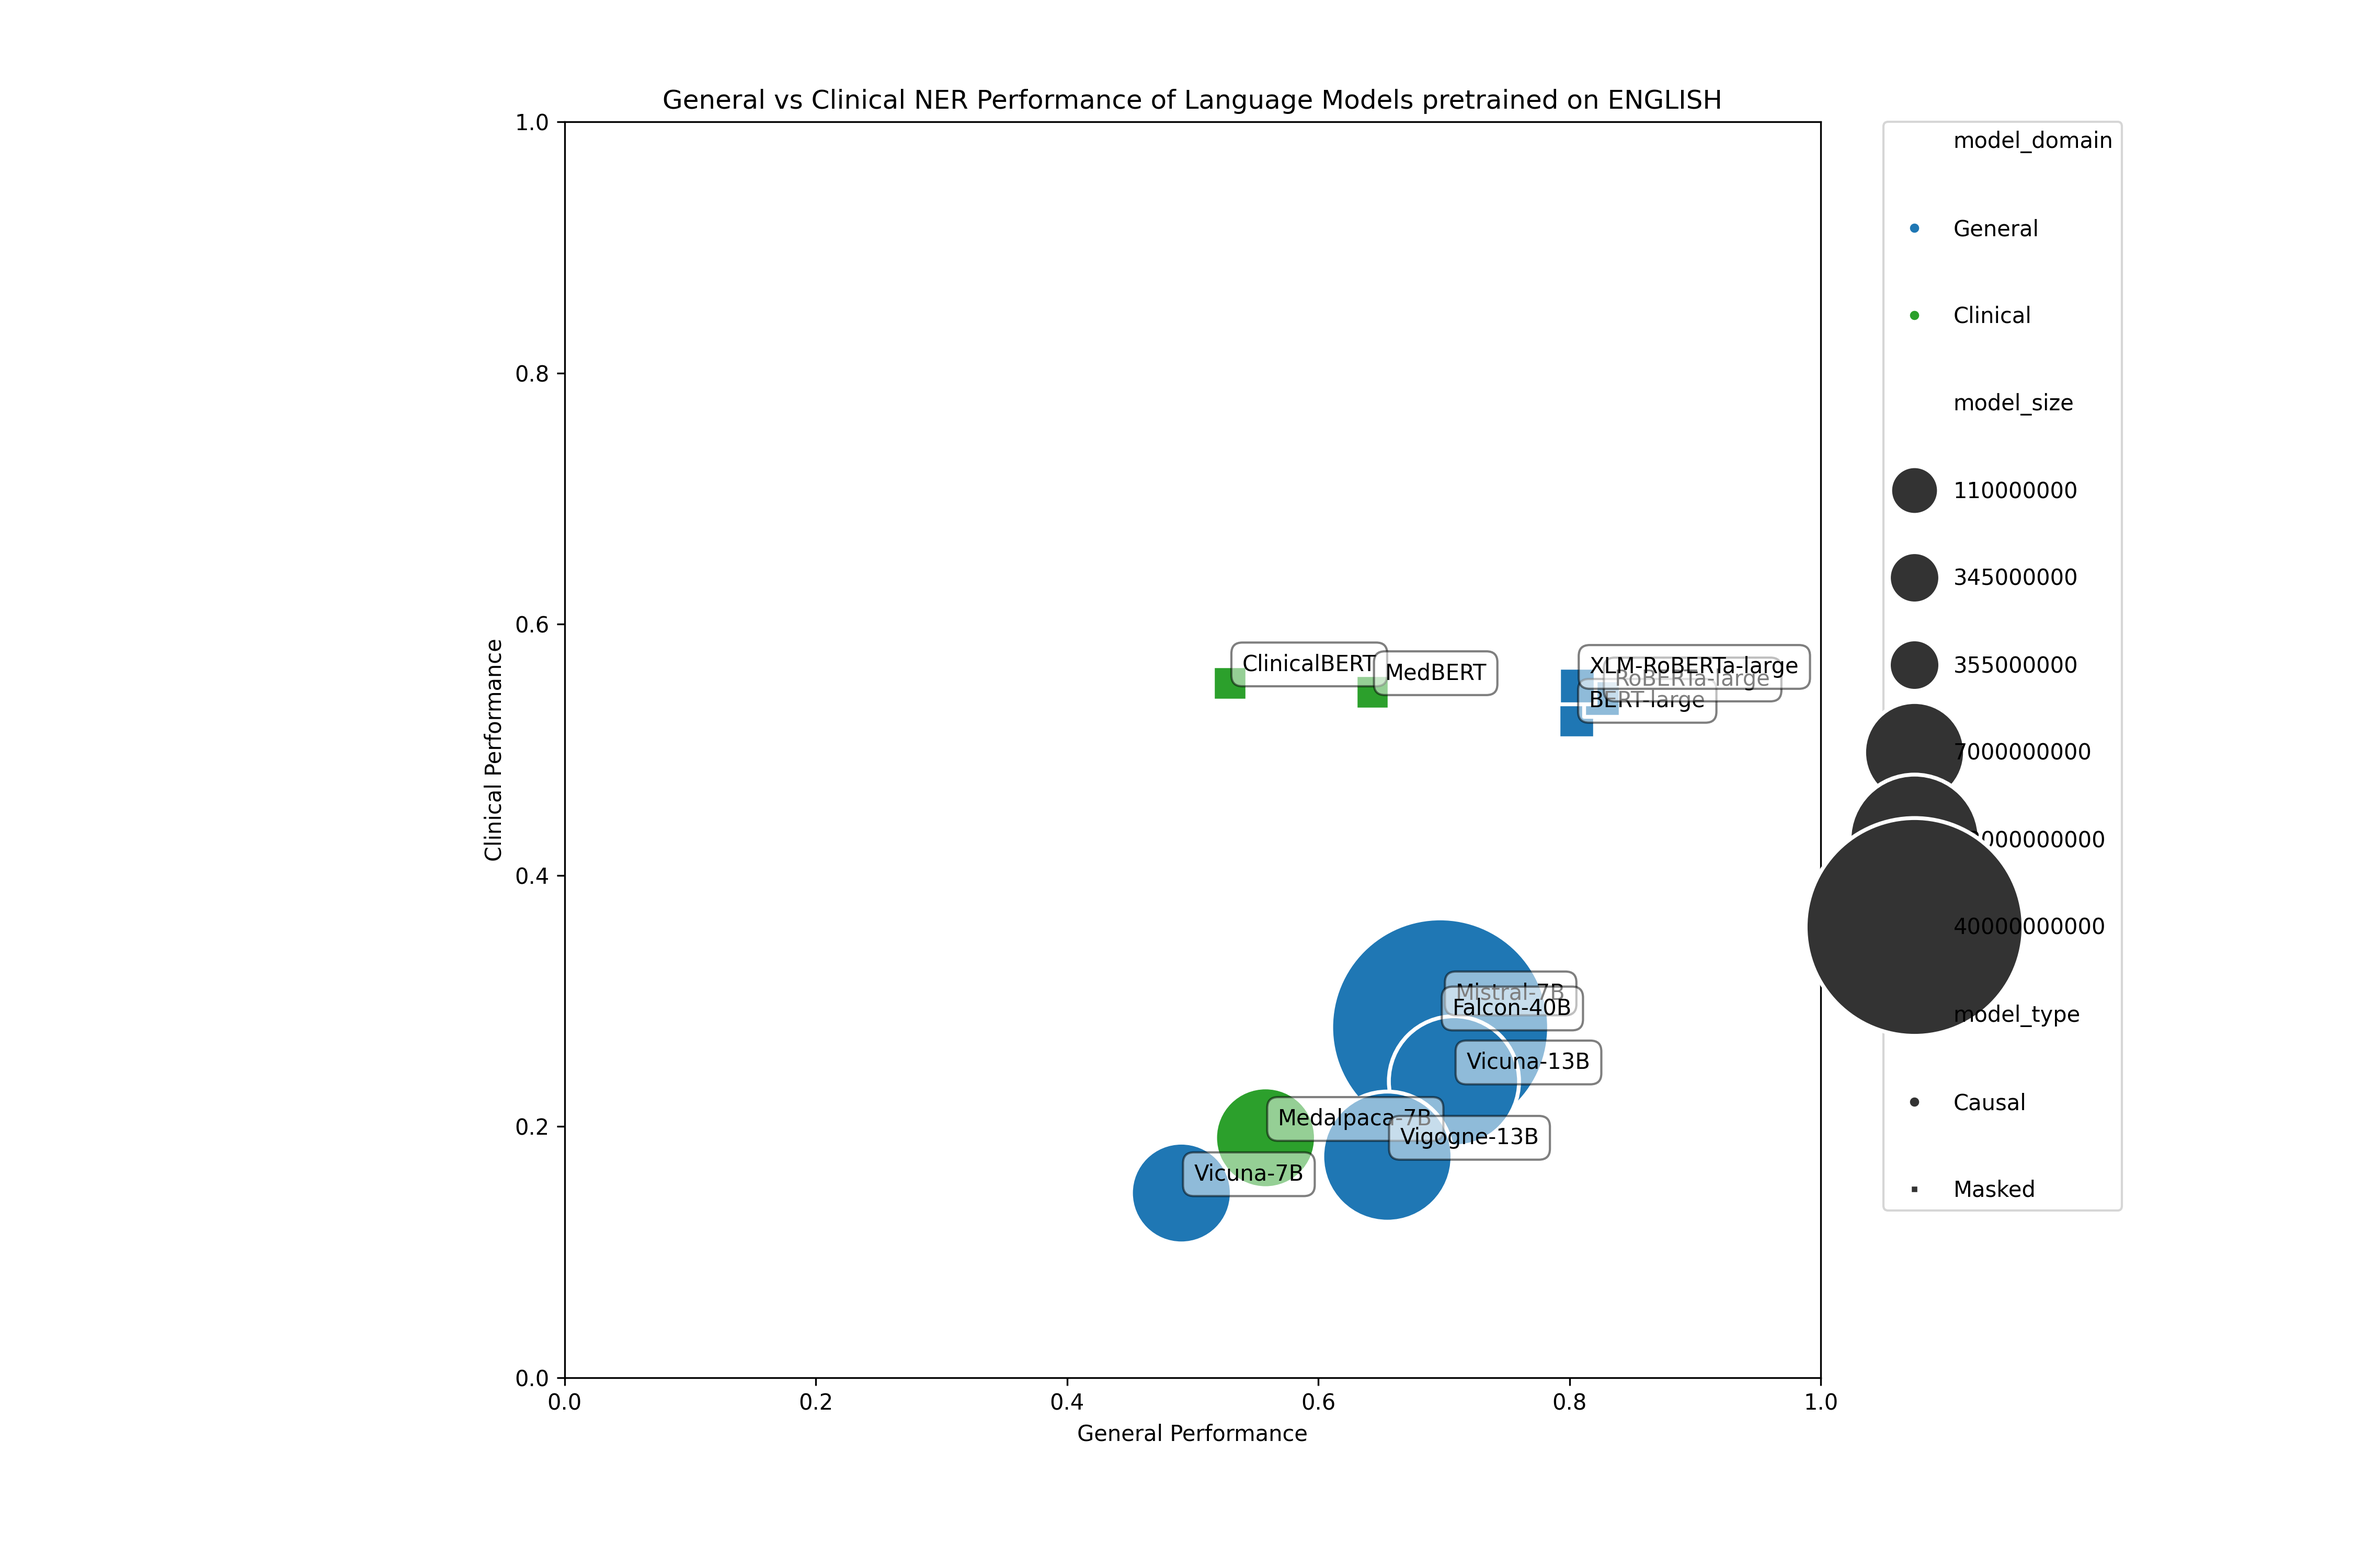
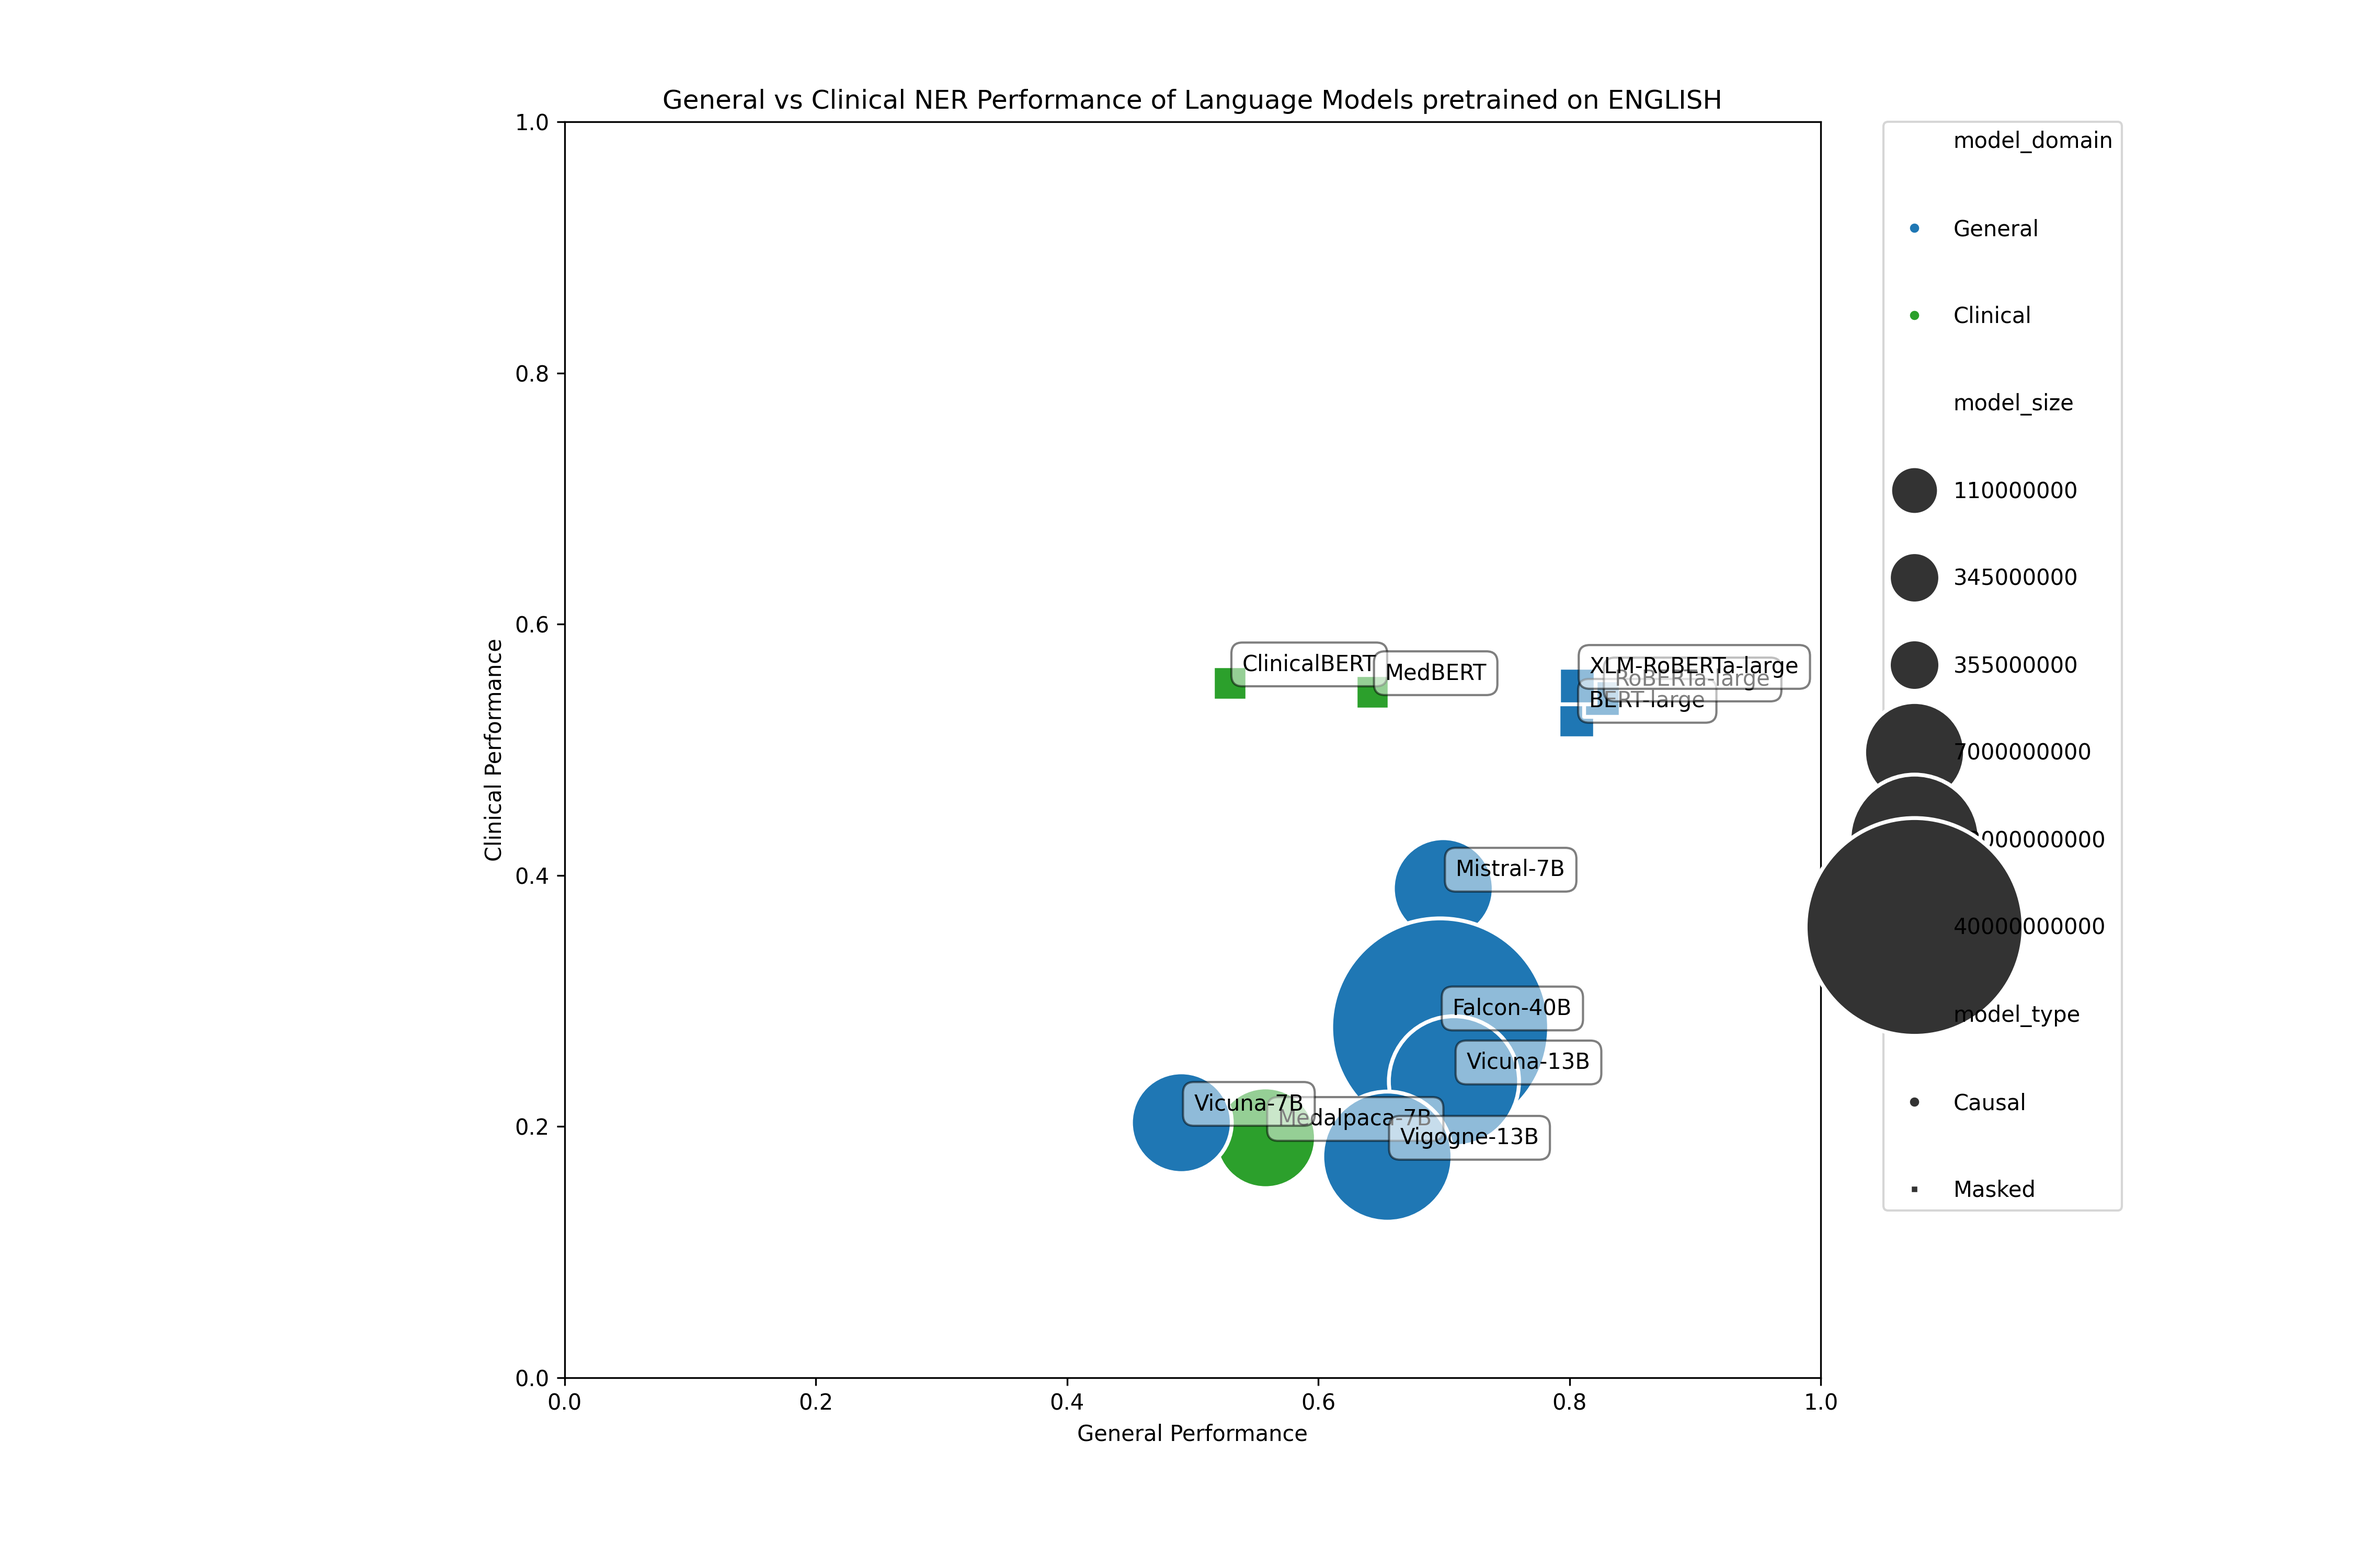
res

Changed region(s): [[0.4667, 0.682, 0.56, 0.806], [0.5911, 0.527, 0.6533, 0.589], [0.5911, 0.62, 0.6844, 0.651]]

diff --git a/result_tabs_and_plots/results_table.tex b/result_tabs_and_plots/results_table.tex
@@ -3,10 +3,10 @@
 \cmidrule{3-8} \cmidrule{9-13} \cmidrule{14-17}
 & Model & WikiNER & CoNLL2003 & ACE & E3C & n2c2 & i2b2 & WikiNER & QFP & E3C & EMEA & MEDLINE & WikiNER & CoNLL2002 & E3C & CWL \\
 \midrule
-\multirow{6}{*}{\rotatebox[origin=c]{90}{Causal}} & Mistral-7B & 0.754 & 0.645 & - & - & 0.291 & - & 0.727 & - & 0.59 & 0.229 & 0.333 & 0.72 & - & 0.083 & - \\
+\multirow{6}{*}{\rotatebox[origin=c]{90}{Causal}} & Mistral-7B & 0.754 & 0.645 & - & 0.488 & 0.291 & - & 0.727 & - & 0.59 & 0.229 & 0.333 & 0.72 & - & 0.083 & - \\
  & Falcon-40B & 0.686 & 0.708 & - & - & 0.279 & - & 0.662 & - & - & - & 0.283 & 0.72 & - & - & - \\
  & Vicuna-13B & - & 0.708 & - & - & 0.236 & - & - & - & - & - & 0.326 & - & - & - & - \\
- & Vicuna-7B & 0.594 & 0.388 & - & - & 0.147 & - & 0.591 & - & 0.439 & 0.152 & 0.296 & 0.659 & - & 0.042 & - \\
+ & Vicuna-7B & 0.594 & 0.388 & - & 0.259 & 0.147 & - & 0.591 & - & 0.439 & 0.152 & 0.296 & 0.659 & - & 0.042 & - \\
  & Medalpaca-7B & - & 0.558 & - & - & 0.191 & - & - & - & - & 0.161 & 0.224 & - & - & - & - \\
  & Vigogne-13B & - & 0.655 & - & - & 0.176 & - & 0.515 & - & - & 0.099 & 0.142 & - & - & - & - \\
 \midrule
